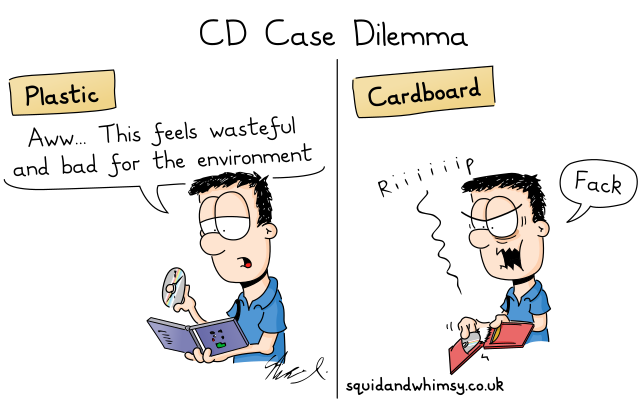
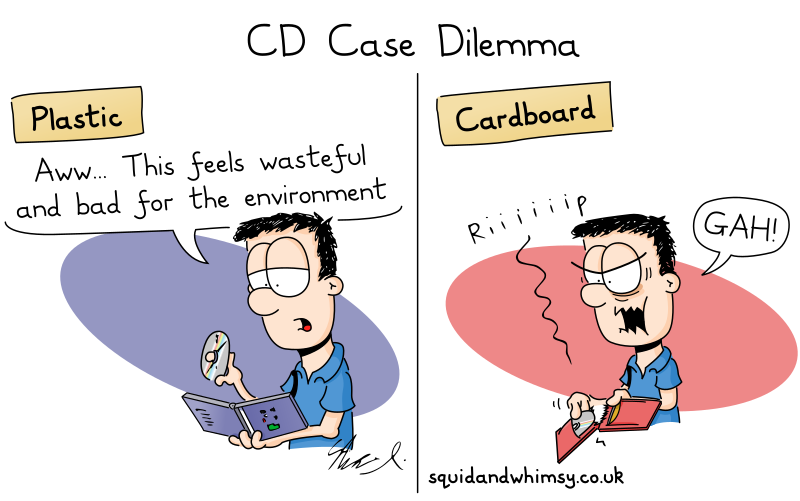
Toon #20 - Remaster
With better backgrounds and captions

diff --git a/Cartoons/10/post.html b/Cartoons/10/post.html
@@ -122,9 +122,9 @@
             <div class="trim"></div>
             <section id="otherPages">
                 <div id="otherPagesHeader">Other pages you might enjoy</div>
-                <a class="pageLink" href="/Cartoons/27/post.html">
-                    <img src="/Images/Cartoons/27_Abominable/Thumb.png"/>
-                    <div>Abominable</div>
+                <a class="pageLink" href="/Cartoons/20/post.html">
+                    <img src="/Images/Cartoons/20_CD_Case_Dilemma/Thumb.png"/>
+                    <div>CD Case Dilemma</div>
                 </a>
                 <a class="pageLink" href="/Cartoons/40/post.html">
                     <img src="/Images/Cartoons/40_Rock_Keeping/Thumb.png"/>
